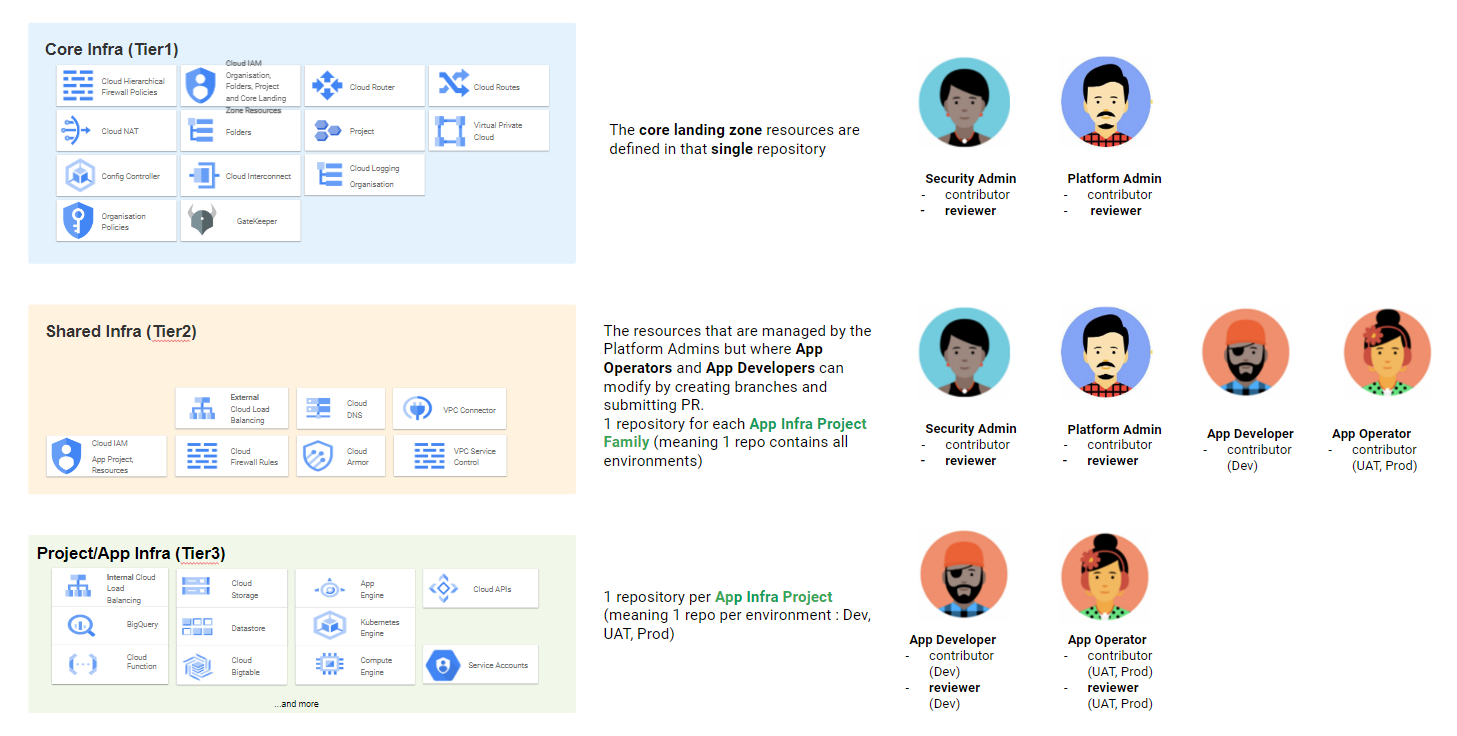
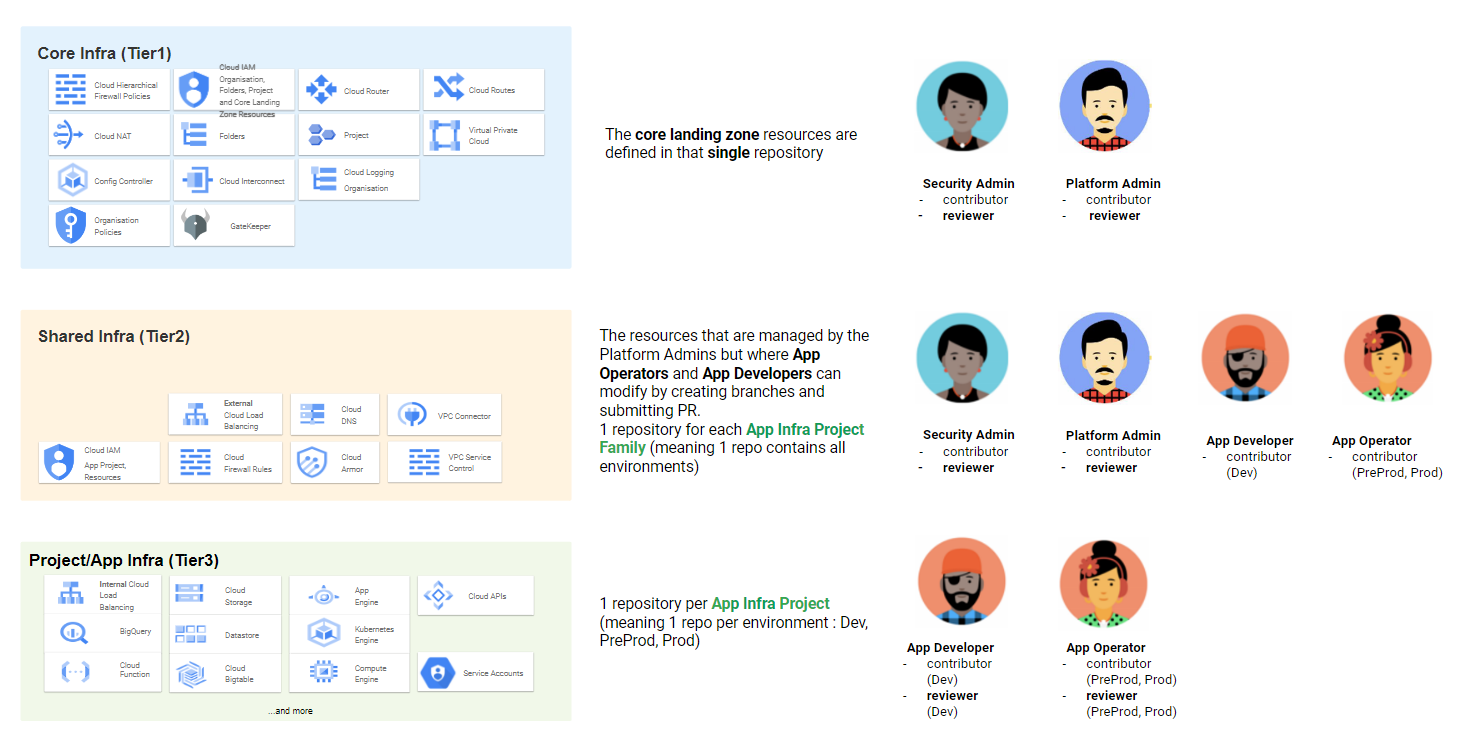
docs: rename uat to preprod (#13)
* renamed uat to preprod

* docs: rename uat to preprod

* docs: remove TODO

diff --git a/Landing Zone Operations/Changing.md b/Landing Zone Operations/Changing.md
@@ -74,7 +74,7 @@ It will need to be customized for each environment.  This is a manual process, a
     # for example, 'landing-zone/org-policies/setters.yaml'
     export FILE_TO_CUSTOMIZE=''
 
-    for env_subdir in experimentation dev uat prod; do
+    for env_subdir in experimentation dev preprod prod; do
         # check if env. folder exists in source-customization
         if [ -d "../source-customization/${env_subdir}" ]; then
             # copy the file, with no overwrite, keeping full path
@@ -176,7 +176,7 @@ Follow these steps to remove a package:
     ```
 1. Remove the customization for each environment:
     ```bash
-    for env_subdir in experimentation dev uat prod; do
+    for env_subdir in experimentation dev preprod prod; do
         # check if env. folder exists in source-customization
         if [ -d "${env_subdir}/${PKG_PATH}" ]; then
             rm --recursive "${env_subdir}/${PKG_PATH}"
@@ -239,15 +239,15 @@ This example will focus on `gcp-tier1-infra` and `gcp-tier1-configsync`:
     - Hydrate the repo and create a PR.
     - Once the PR is merged the config sync operator will pick up the updated configs in `gcp-tier1-infra/deploy/dev`.
     - Confirm synchronization of all resources from the [Config Sync Dashboard](https://console.cloud.google.com/kubernetes/config_management/dashboard) or by running `nomos status`.
-    - Validate landing zone and workload functionalities for the `dev` environment in GCP.  Proceed to `uat` if successful, restart the process if not.
-1. `uat`:
-    - Set `version:` in `source-customization/uat/tier1-root-sync/setters-version.yaml` to the same value as `dev`.
+    - Validate landing zone and workload functionalities for the `dev` environment in GCP.  Proceed to `preprod` if successful, restart the process if not.
+1. `preprod`:
+    - Set `version:` in `source-customization/preprod/tier1-root-sync/setters-version.yaml` to the same value as `dev`.
     - Hydrate the repo and create a PR.
-    - Once the PR is merged the config sync operator will pick up the updated configs in `gcp-tier1-infra/deploy/uat`.
+    - Once the PR is merged the config sync operator will pick up the updated configs in `gcp-tier1-infra/deploy/preprod`.
     - Confirm synchronization of all resources from the [Config Sync Dashboard](https://console.cloud.google.com/kubernetes/config_management/dashboard) or by running `nomos status`.
-    - Validate landing zone and workload functionalities for the `uat` environment in GCP.  Proceed to `prod` if successful, restart the process if not.
+    - Validate landing zone and workload functionalities for the `preprod` environment in GCP.  Proceed to `prod` if successful, restart the process if not.
 1. `prod`:
-    - Set `version:` in `source-customization/prod/tier1-root-sync/setters-version.yaml` to the same value as `uat`.
+    - Set `version:` in `source-customization/prod/tier1-root-sync/setters-version.yaml` to the same value as `preprod`.
     - Hydrate the repo and create a PR.
     - Once the PR is merged the config sync operator will pick up the updated configs in `gcp-tier1-infra/deploy/prod`.
     - Confirm synchronization of all resources from the [Config Sync Dashboard](https://console.cloud.google.com/kubernetes/config_management/dashboard) or by running `nomos status`.

diff --git a/Developer/Guide.md b/Developer/Guide.md
@@ -42,8 +42,7 @@ Example of policy use cases
 
 # Shared Services Canada - GCP Landing zone
 
-SSC has built 4 distinct GCP organizations to isolate each environment from each other. The environments are experimentation, DEV, UAT and PROD.
-TODO: update diagram to reflect experimentation
+SSC has built 4 distinct GCP organizations to isolate each environment from each other. The environments are experimentation, DEV, PREPROD and PROD.
 
 ![organizations](img/organizations.png)
 
@@ -82,11 +81,11 @@ TODO: update diagram to reflect experimentation
 
   ![experimentation networking](img/experimentation-networking.png)
 
-## DEV, UAT and PROD (UNDER CONSTRUCTION)
+## DEV, PREPROD and PROD (UNDER CONSTRUCTION)
 
-The DEV environment is where you will be developing your application. UAT and PROD should be used for code promotion with your choice of CD pipeline.
+The DEV environment is where you will be developing your application. PREPROD and PROD should be used for code promotion with your choice of CD pipeline.
 
-As you may expect, the number of security controls implemented for DEV, UAT and PROD is much larger than for the experimentation environment. The 12 `30 days guardrails` and numerous additional ITSG 33 controls are enforced within these environments so that you can streamline the ATO process of your applications by leveraging the ATO of the SSC GCP landing zone.
+As you may expect, the number of security controls implemented for DEV, PREPROD and PROD is much larger than for the experimentation environment. The 12 `30 days guardrails` and numerous additional ITSG 33 controls are enforced within these environments so that you can streamline the ATO process of your applications by leveraging the ATO of the SSC GCP landing zone.
 
 ### Cost
 
@@ -94,7 +93,7 @@ Your projects are linked to a GCP billing account owned by **"your organization"
 
 ### Permissions
 
-Your team (developers) gets granted `Viewer` role on the GCP project in the Dev organization only. To enforce separation of duties, it is the application operator that is granted that same role for the UAT and PROD organization.
+Your team (developers) gets granted `Viewer` role on the GCP project in the Dev organization only. To enforce separation of duties, it is the application operator that is granted that same role for the PREPROD and PROD organization.
 
 ### Working with GCP
 
@@ -114,7 +113,7 @@ So, when you want a change implemented on your tier 2 repo, you have two options
 
 Once that change is merged into the main branch, a new tag on the repo gets created. That tag is a version number following the [standard](https://semver.org/) major.minor.patch. TODO: update with tagging process requirements (changelog, etc.)
 
-ConfigSync is not configured to observe the main branch, instead, it is configured to watch a specific tag on the `Infra` repo. If you want to get your new version in effect for DEV, UAT or PROD, you need to change that tag inside the `ConfigSync` repo.
+ConfigSync is not configured to observe the main branch, instead, it is configured to watch a specific tag on the `Infra` repo. If you want to get your new version in effect for DEV, PREPROD or PROD, you need to change that tag inside the `ConfigSync` repo.
 
 That full process is illustrated in this diagram
 

diff --git a/Architecture/Repository Structure.md b/Architecture/Repository Structure.md
@@ -22,8 +22,8 @@ The process to implement a code change goes like this:
 The git repos are organized in different categories:
 - `gcp-documentation` (this repo) contains documentation for the landing zone.
 - Deployment repos: two types exists, one to manage Config Sync repos, the other to store infrastructure configurations.
-    - `gcp-tier1-configsync` is where the initial `root-sync` object is pointing and is used to manage the root sync objects and versioning of the tier1 infrastructure in experimentation, dev, uat and prod.
-    - `gcp-tier1-infra` contains the landing zone configs for dev, uat and prod.
+    - `gcp-tier1-configsync` is where the initial `root-sync` object is pointing and is used to manage the root sync objects and versioning of the tier1 infrastructure in experimentation, dev, preprod and prod.
+    - `gcp-tier1-infra` contains the landing zone configs for dev, preprod and prod.
     - `gcp-experimentation-tier1-infra` contains the landing zone configs for experimentation.
 - `gcp-tools` contains common scripts and pipeline templates used by repos above as a git submodule.
 - `gcp-blueprints-catalog` **private repo** contains SSC specific packages that are used to build a landing zone.
@@ -33,7 +33,7 @@ TODO: tier2 and tier3 repos
 ## Deployment Repos
 These repos have a common directory structure with slight variations. 
 
-Below is a brief explanation of key repo components.  Some directories include sub-directories for each environment it configures (experimentation, dev, uat, prod).  For simplicity, they will be expressed below as `<env_subdirs>`.
+Below is a brief explanation of key repo components.  Some directories include sub-directories for each environment it configures (experimentation, dev, preprod, prod).  For simplicity, they will be expressed below as `<env_subdirs>`.
 
 - `repo root`:
     - `.azure-pipelines` or `.github`: pipelines YAML files.
@@ -62,7 +62,7 @@ To overcome this limitation and checkout a specific tag or commit SHA, run `modu
 The tools submodule contains a `hydrate.sh` script to hydrate the configs with `kpt`.  The script must be executed when any changes to `source-base` and/or `source-customization` are made.  It is configured to run as a pre-commit hook for local validation and also in a validation pipeline during PR creation (TODO: create pipeline).
 
 At a high level, the script will:
-1. For each environment (experimentation, dev, uat, prod), check if `source-customization/` contains that sub directory.  If so:
+1. For each environment (experimentation, dev, preprod, prod), check if `source-customization/` contains that sub directory.  If so:
     - Create a `temp-workspace/<env>` directory to copy the `source-base/` and then copy `source-customization/<env>/`, this adds customization specific to that environment.
     - Run `kpt fn render` and remove local configs in `temp-workspace/<env>`.
     - Check if newly hydrated files in `temp-workspace/<env>` are different than `deploy/<env>`.  If so, copy them to `deploy/<env>`.

diff --git a/Landing Zone Operations/Building.md b/Landing Zone Operations/Building.md
@@ -35,7 +35,7 @@ This section will implement the Infra repo
     - Experimentation
           
         repo name = `gcp-experimentation-tier1-infra`
-    - DEV, UAT, PROD
+    - DEV, PREPROD, PROD
 
         repo name = `gcp-tier1-infra`
 1. Clone locally the `gcp-repo-template` in order to build the new `tier1-infra` repo
@@ -44,7 +44,7 @@ This section will implement the Infra repo
       git clone https://github.com/ssc-spc-ccoe-cei/gcp-repo-template.git gcp-experimentation-tier1-infra
       ```
     
-    - DEV, UAT, PROD
+    - DEV, PREPROD, PROD
         ```bash
         git clone https://github.com/ssc-spc-ccoe-cei/gcp-repo-template.git gcp-tier1-infra
         ```
@@ -53,7 +53,7 @@ This section will implement the Infra repo
         ```bash
         cd gcp-experimentation-tier1-infra
         ```
-    - DEV, UAT, PROD
+    - DEV, PREPROD, PROD
         ```bash
         cd gcp-tier1-infra
         ```
@@ -178,7 +178,7 @@ Now let's deploy that first root-sync that will make the magic happen and get yo
       git:
         repo: <REPO_URL> # This is the url to your gcp-tier1-configsync repo
         branch: main
-        dir: deploy/<env> # env should be replaced by experimentation or dev or uat or prod depending on what landing zone you are building
+        dir: deploy/<env> # env should be replaced by experimentation or dev or preprod or prod depending on what landing zone you are building
         revision: HEAD
         auth: token
         secretRef:

diff --git a/Landing Zone Operations/Building_Using_Automation.md b/Landing Zone Operations/Building_Using_Automation.md
@@ -19,7 +19,7 @@ As illustrated in the [Gitops](../Architecture/Repository%20Structure.md#Gitops)
 The steps assume these repos have already been created by following the "Create New Deployment Repo" section in [Repositories.md](./Repositories.md):
 - One of the two infra repos:
     - `gcp-experimentation-tier1-infra`: if building a experimentation landing-zone.
-    - `gcp-tier1-infra`: if building a dev, uat or prod landing-zone.
+    - `gcp-tier1-infra`: if building a dev, preprod or prod landing-zone.
 - `gcp-tier1-configsync`: to identify which git revision of `tier1-infra` the Config Sync operator should observe.
 
 # Setup
@@ -34,7 +34,7 @@ The script requires a `.env` file to deploy the environment.
     - Experimentation
 
         repo name = `gcp-experimentation-tier1-infra`
-    - DEV, UAT, PROD
+    - DEV, PREPROD, PROD
 
         repo name = `gcp-tier1-infra`
 1. Your terminal should now be at the root of your `tier1-infra` repo, on a new branch and with the tools submodule populated.
@@ -95,7 +95,7 @@ Follow step 2A "Add a Package" of [Changing.md](./Changing.md) to add each of th
         # for experimentation
         export PKG_PATH='solutions/hierarchy/core-experimentation'
         # OR
-        # for dev, uat, prod
+        # for dev, preprod, prod
         export PKG_PATH='solutions/hierarchy/core-env'
 
         # the version to get, located in the package's CHANGELOG.md, use 'main' if not available

diff --git a/Landing Zone Operations/Repositories.md b/Landing Zone Operations/Repositories.md
@@ -62,13 +62,13 @@ The git credentials will need to be appropriately set for your AzDO org.
 1. For **`Infra`** repos, remove the environment sub-directories which are not required. **Never delete '.gitkeep' files in folders that remain.**
     - If the repo is for experimentation. For example, `gcp-experimentation-tier1-infra`:
         ```bash
-        # remove the 'dev', 'uat' and 'prod' sub-directories
-        for env_subdir in dev uat prod; do
+        # remove the 'dev', 'preprod' and 'prod' sub-directories
+        for env_subdir in dev preprod prod; do
             rm --recursive "deploy/${env_subdir}/"
             rm --recursive "source-customization/${env_subdir}/"
         done
         ```
-    - If the repo is for dev, uat and prod. For example, `gcp-tier1-infra`:
+    - If the repo is for dev, preprod and prod. For example, `gcp-tier1-infra`:
         ```bash
         # remove the 'experimentation' sub-directory
         for env_subdir in experimentation; do

diff --git a/Onboarding/Application.md b/Onboarding/Application.md
@@ -22,7 +22,7 @@
     **user or group has to exist in a Google Cloud Identity (any existing domain)**
 
 
-### DEV, UAT, PROD (UNDER CONSTRUCTION)
+### DEV, PREPROD, PROD (UNDER CONSTRUCTION)
 
 1. Host Project ID (with a Shared VPC) that exist to connect this workload/service project
 
@@ -46,7 +46,7 @@
       kpt pkg get https://github.com/GoogleCloudPlatform/pubsec-declarative-toolkit.git/solutions/project/project-experimentation@main ./landing-zone/hierarchy/clients/<client name>/applications/<project-id>
       ```
 
-    - DEV, UAT, PROD
+    - DEV, PREPROD, PROD
       ```
       kpt pkg get https://github.com/GoogleCloudPlatform/pubsec-declarative-toolkit.git/solutions/project/project-experimentation@main ./landing-zone/hierarchy/clients/<client name>/applications/<data classification>/<project-id>
       ```

diff --git a/README.MD b/README.MD
@@ -1,4 +1,4 @@
 Shared Services Canada has built an enterprise virtual datacenter in Google Cloud to host workloads from any of the 43 departments of Government of Canada. These workloads are integrated into what we call a **Landing Zone**.
 
-This repo will demonstrate how SSC implemented the Landing zone v2 solution available [here](https://github.com/GoogleCloudPlatform/pubsec-declarative-toolkit/tree/main/solutions/landing-zone-v2) in order to achieve **Day 0,1 and 2** operations.
+This repo will demonstrate how SSC implemented the Landing zone v2 solution available [here](https://github.com/GoogleCloudPlatform/pubsec-declarative-toolkit/tree/main/solutions/landing-zone-v2) in order to achieve **Day 0, 1 and 2** operations.
 

diff --git a/Onboarding/Client.md b/Onboarding/Client.md
@@ -46,7 +46,7 @@
       kpt pkg get https://github.com/GoogleCloudPlatform/pubsec-declarative-toolkit.git/solutions/hierarchy/client-experimentation@main ./landing-zone/hierarchy/clients/<client name>
       ```
 
-    - DEV, UAT, PROD
+    - DEV, PREPROD, PROD
       ```
       kpt pkg get https://github.com/GoogleCloudPlatform/pubsec-declarative-toolkit.git/solutions/hierarchy/client-env@main ./landing-zone/hierarchy/clients/<client name>
       ```
@@ -64,7 +64,7 @@
     Refer to the `Publish` section of the [Changing.md](Changing.md)
 
 
-## Add client Tier2-ConfigSync (DEV, UAT, PROD only) (UNDER CONSTRUCTION)
+## Add client Tier2-ConfigSync (DEV, PREPROD, PROD only) (UNDER CONSTRUCTION)
 
 TODO: complete this steps
 
